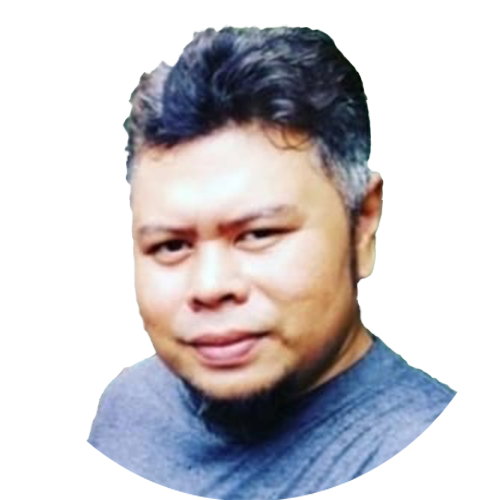
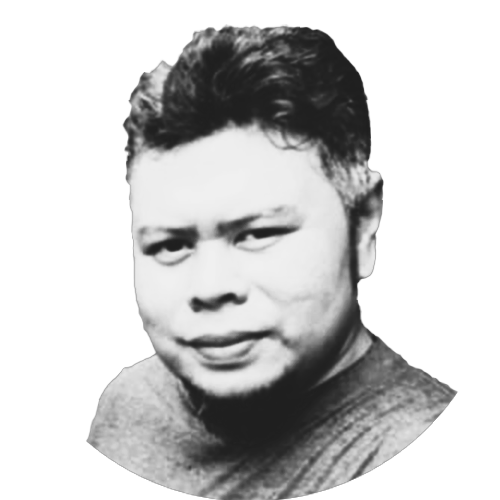
Update member images and their display in member.php and rnd.php.
- Update images for members in member.php and rnd.php.
- Remove grayscale filter from member images in member.php.
- Adjust column width for member cards in member.php.
- Adjust row alignment and column text alignment in rnd.php.

diff --git a/member.php b/member.php
@@ -97,7 +97,7 @@
                   <p class='lh-1 mb-0'>PRESIDEN</p>
                 </div>
                 <div class='card-img'>
-                  <img src='https://ik.imagekit.io/mhrtech/roipmars-org-my/media/image/member/002.png' loading='lazy' class='img-fluid rounded-circle object-fit-fill bg-primary-subtle bg-gradient w-75' style='filter: grayscale(100%);'>
+                  <img src='https://ik.imagekit.io/mhrtech/roipmars-org-my/media/image/member/002.png' loading='lazy' class='img-fluid rounded-circle object-fit-fill bg-primary-subtle bg-gradient w-75'>
                 </div>
                 <div class='card-footer'>
                   <p class='fw-bolder m-0'>ZULKIFLI ABU</p>
@@ -163,13 +163,13 @@
             </div>
           </div>
           <div class='row border-top justify-content-between'>
-            <div class='col-4 col-lg-2 my-1 mx-0 text-center'>
+            <div class='col-6 col-lg-2 my-1 mx-0 text-center'>
               <div class='card-group justify-content-center'>
                 <div class='card-header fw-bold'>
                   <p class='lh-1 mb-0'>BAHAGIAN<br>SIARAYA &amp; AKTIVITI<br><sup>&#40;Pegawai Lantikan Sementara&#41;</sup></p>
                 </div>
                 <div class='card-img'>
-                  <img src='https://ik.imagekit.io/mhrtech/roipmars-org-my/media/image/member/025.png' loading='lazy' class='img-fluid rounded-circle object-fit-fill bg-info-subtle bg-gradient w-75'>
+                  <img src='https://ik.imagekit.io/mhrtech/roipmars-org-my/media/image/member/025.png' loading='lazy' class='img-fluid rounded-circle object-fit-fill bg-info-subtle bg-gradient w-50'>
                 </div>
                 <div class='card-footer'>
                   <p class='fw-bolder m-0'>SABRI IBRAHIM</p>
@@ -177,13 +177,13 @@
                 </div>
               </div>
             </div>
-            <div class='col-4 col-lg-2 my-1 mx-0 text-center'>
+            <div class='col-6 col-lg-2 my-1 mx-0 text-center'>
               <div class='card-group justify-content-center'>
                 <div class='card-header fw-bold'>
                   <p class='lh-1 mb-0'>BAHAGIAN<br>TEKNIKAL</p>
                 </div>
                 <div class='card-img'>
-                  <img src='https://ik.imagekit.io/mhrtech/roipmars-org-my/media/image/member/016.png' loading='lazy' class='img-fluid rounded-circle object-fit-fill bg-info-subtle bg-gradient w-75'>
+                  <img src='https://ik.imagekit.io/mhrtech/roipmars-org-my/media/image/member/016.png' loading='lazy' class='img-fluid rounded-circle object-fit-fill bg-info-subtle bg-gradient w-50'>
                 </div>
                 <div class='card-footer'>
                   <p class='fw-bolder m-0'>ZAHEER ZAKARIA</p>
@@ -191,13 +191,13 @@
                 </div>
               </div>
             </div>
-            <div class='col-4 col-lg-2 my-1 mx-0 text-center'>
+            <div class='col-6 col-lg-2 my-1 mx-0 text-center'>
               <div class='card-group justify-content-center'>
                 <div class='card-header fw-bold'>
                   <p class='lh-1 mb-0'>BAHAGIAN<br>KEBAJIKAN</p>
                 </div>
                 <div class='card-img'>
-                  <img src='https://ik.imagekit.io/mhrtech/roipmars-org-my/media/image/member/006.png' loading='lazy' class='img-fluid rounded-circle object-fit-fill bg-info-subtle bg-gradient w-75'>
+                  <img src='https://ik.imagekit.io/mhrtech/roipmars-org-my/media/image/member/006.png' loading='lazy' class='img-fluid rounded-circle object-fit-fill bg-info-subtle bg-gradient w-50'>
                 </div>
                 <div class='card-footer'>
                   <p class='fw-bolder m-0'>MUSTAFA OMAR</p>
@@ -205,13 +205,13 @@
                 </div>
               </div>
             </div>
-            <div class='col-4 col-lg-2 my-1 mx-0 text-center'>
+            <div class='col-6 col-lg-2 my-1 mx-0 text-center'>
               <div class='card-group justify-content-center'>
                 <div class='card-header fw-bold'>
                   <p class='lh-1 mb-0'>BAHAGIAN<br>EKONOMI</p>
                 </div>
                 <div class='card-img'>
-                  <img src='https://ik.imagekit.io/mhrtech/roipmars-org-my/media/image/member/004.png' loading='lazy' class='img-fluid rounded-circle object-fit-fill bg-info-subtle bg-gradient w-75'>
+                  <img src='https://ik.imagekit.io/mhrtech/roipmars-org-my/media/image/member/004.png' loading='lazy' class='img-fluid rounded-circle object-fit-fill bg-info-subtle bg-gradient w-50'>
                 </div>
                 <div class='card-footer'>
                   <p class='fw-bolder m-0'>FAIZNURNIZAM MAT RASOL</p>

diff --git a/rnd.php b/rnd.php
@@ -20,9 +20,9 @@
           <h2 class='h2 text-center'>Pengurusan Kumpulan Rangkaian RoIPMARS</h2>
         </div>
         <div class='col-lg-6 my-2'>
-          <div class='row g-1 text-lg-start text-center'>
+          <div class='row g-1 text-start'>
             <div class='col-2 align-self-center'>
-              <img src='https://ik.imagekit.io/mhrtech/roipmars-org-my/media/image/member/002.png' loading='lazy' class='img-fluid rounded-circle object-fit-fill bg-dark-subtle bg-gradient' alt='9W2UZL' style='filter: grayscale(100%);'>
+              <img src='https://ik.imagekit.io/mhrtech/roipmars-org-my/media/image/member/002.png' loading='lazy' class='img-fluid rounded-circle object-fit-fill bg-dark-subtle bg-gradient' alt='9W2UZL'>
             </div>
             <div class='col-10 d-flex align-content-center flex-wrap'>
               <div class='card-body mx-3'>
